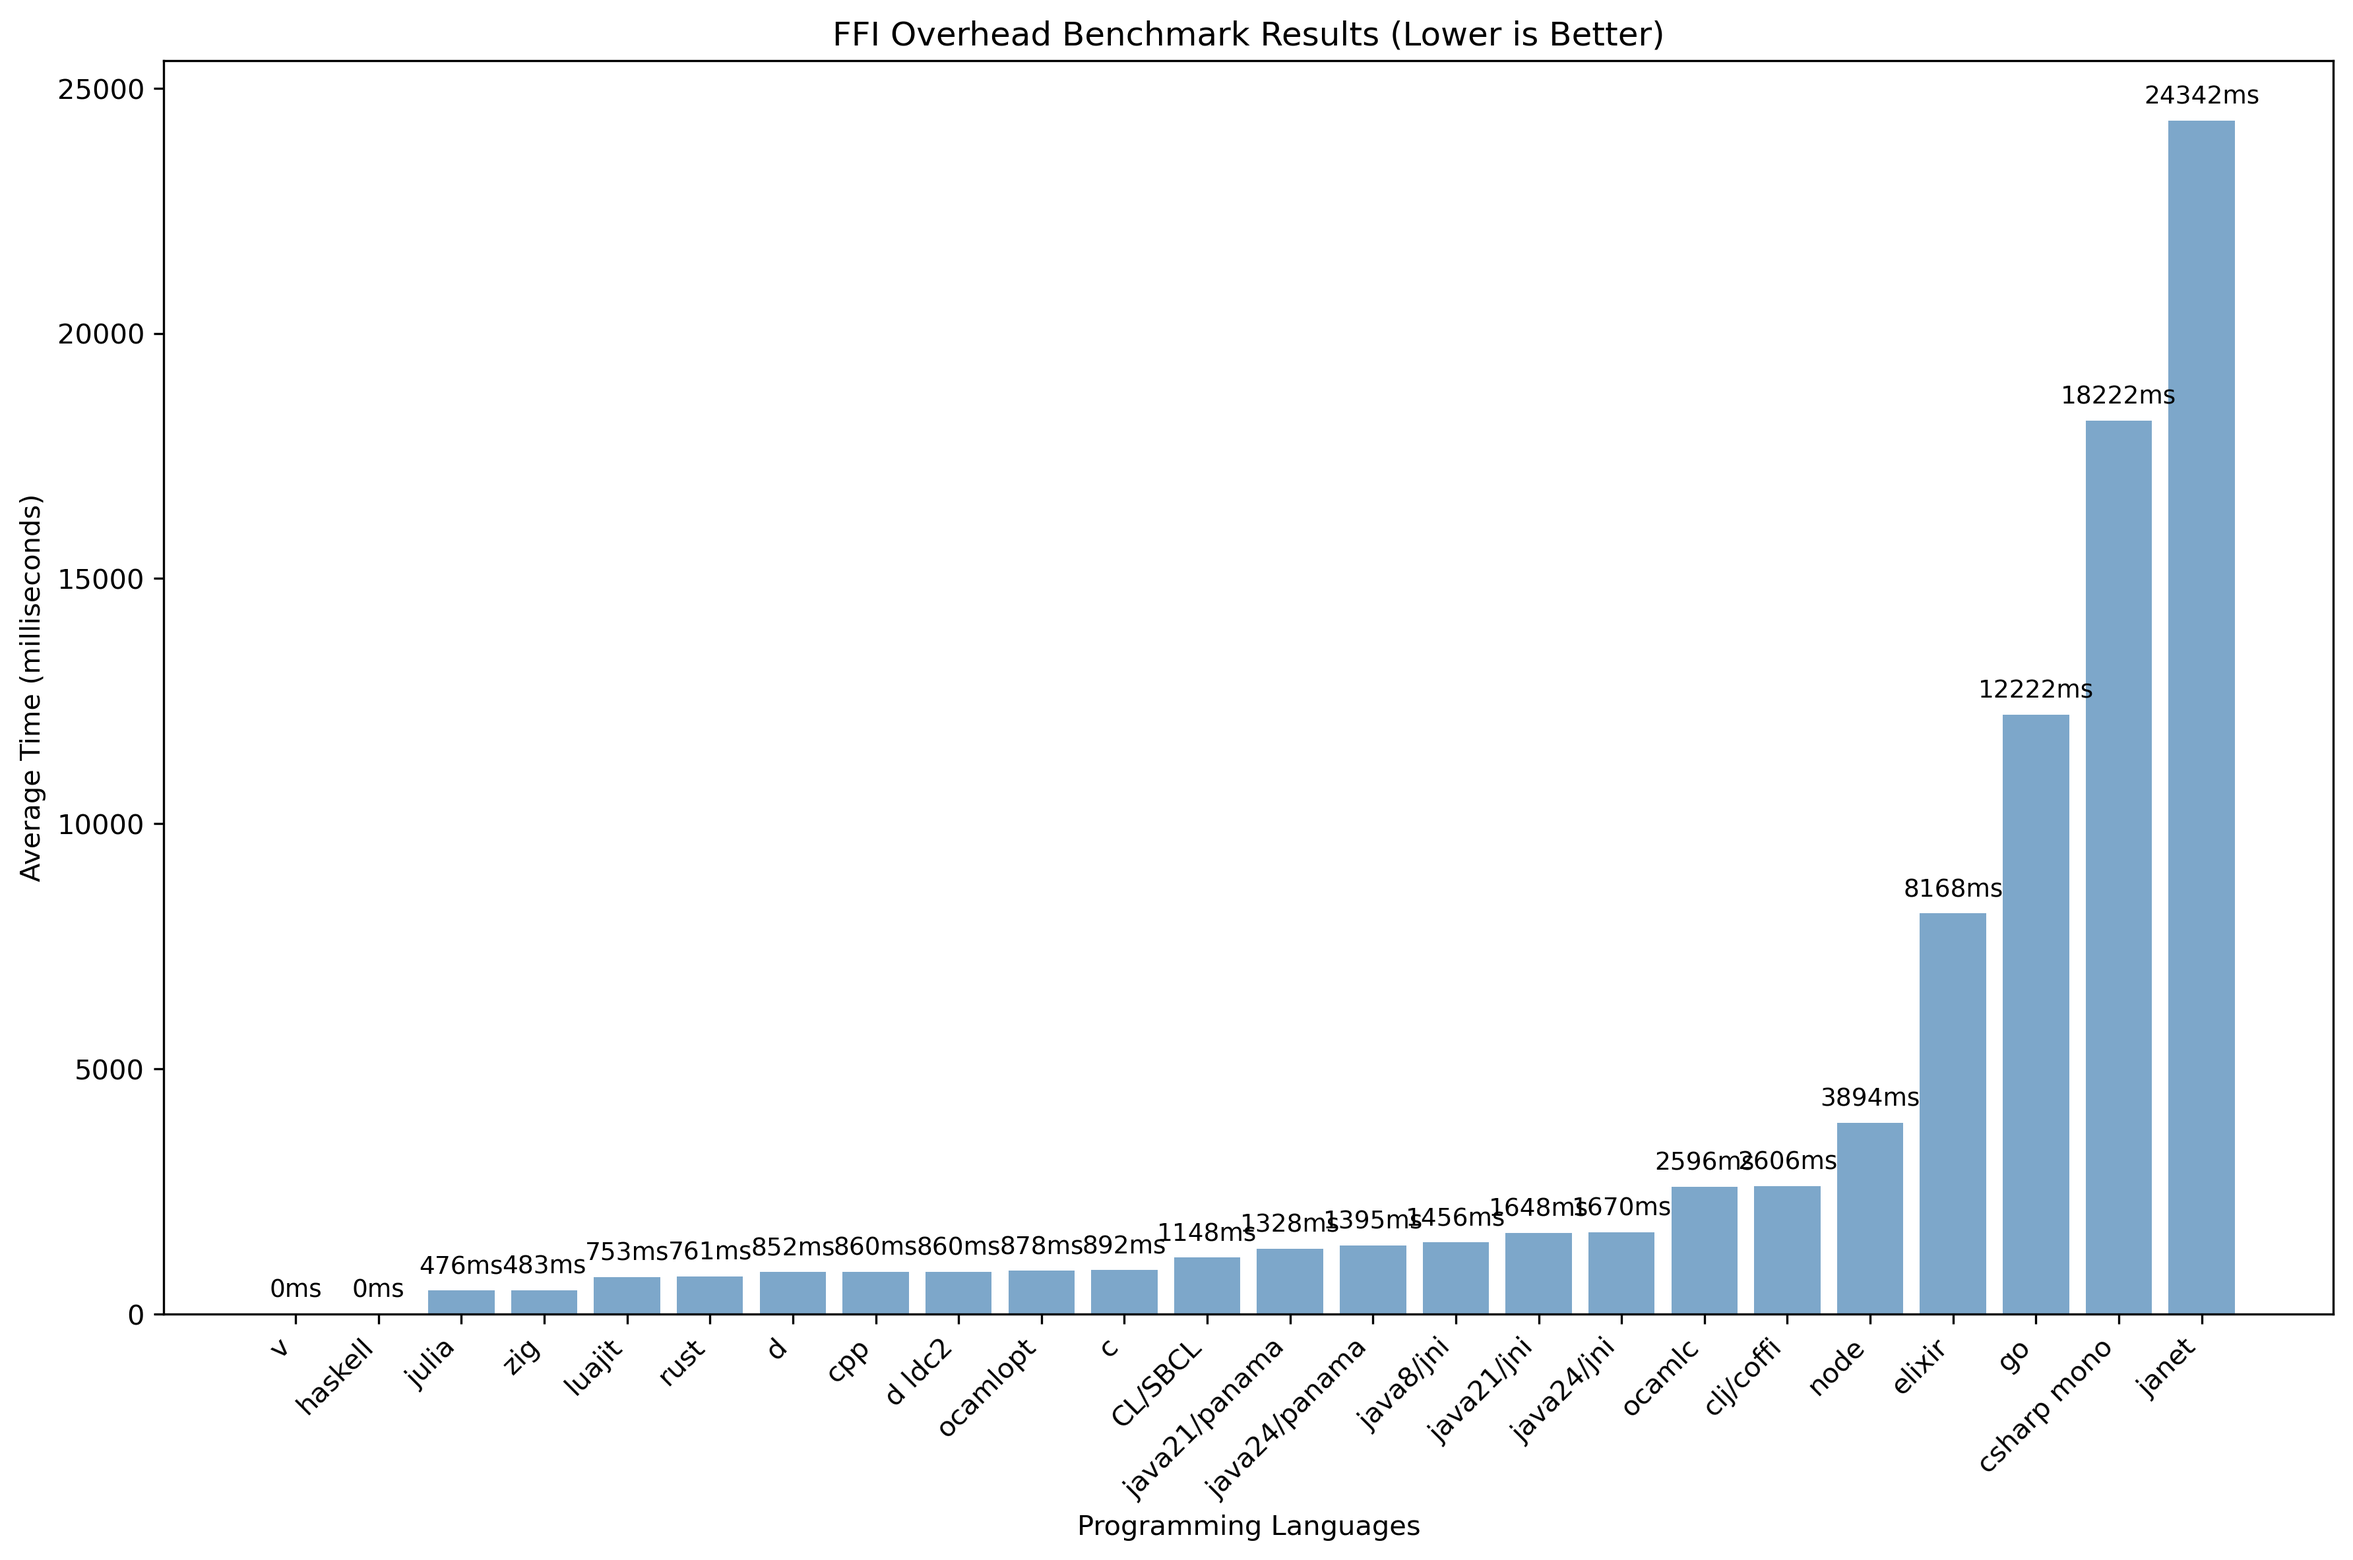
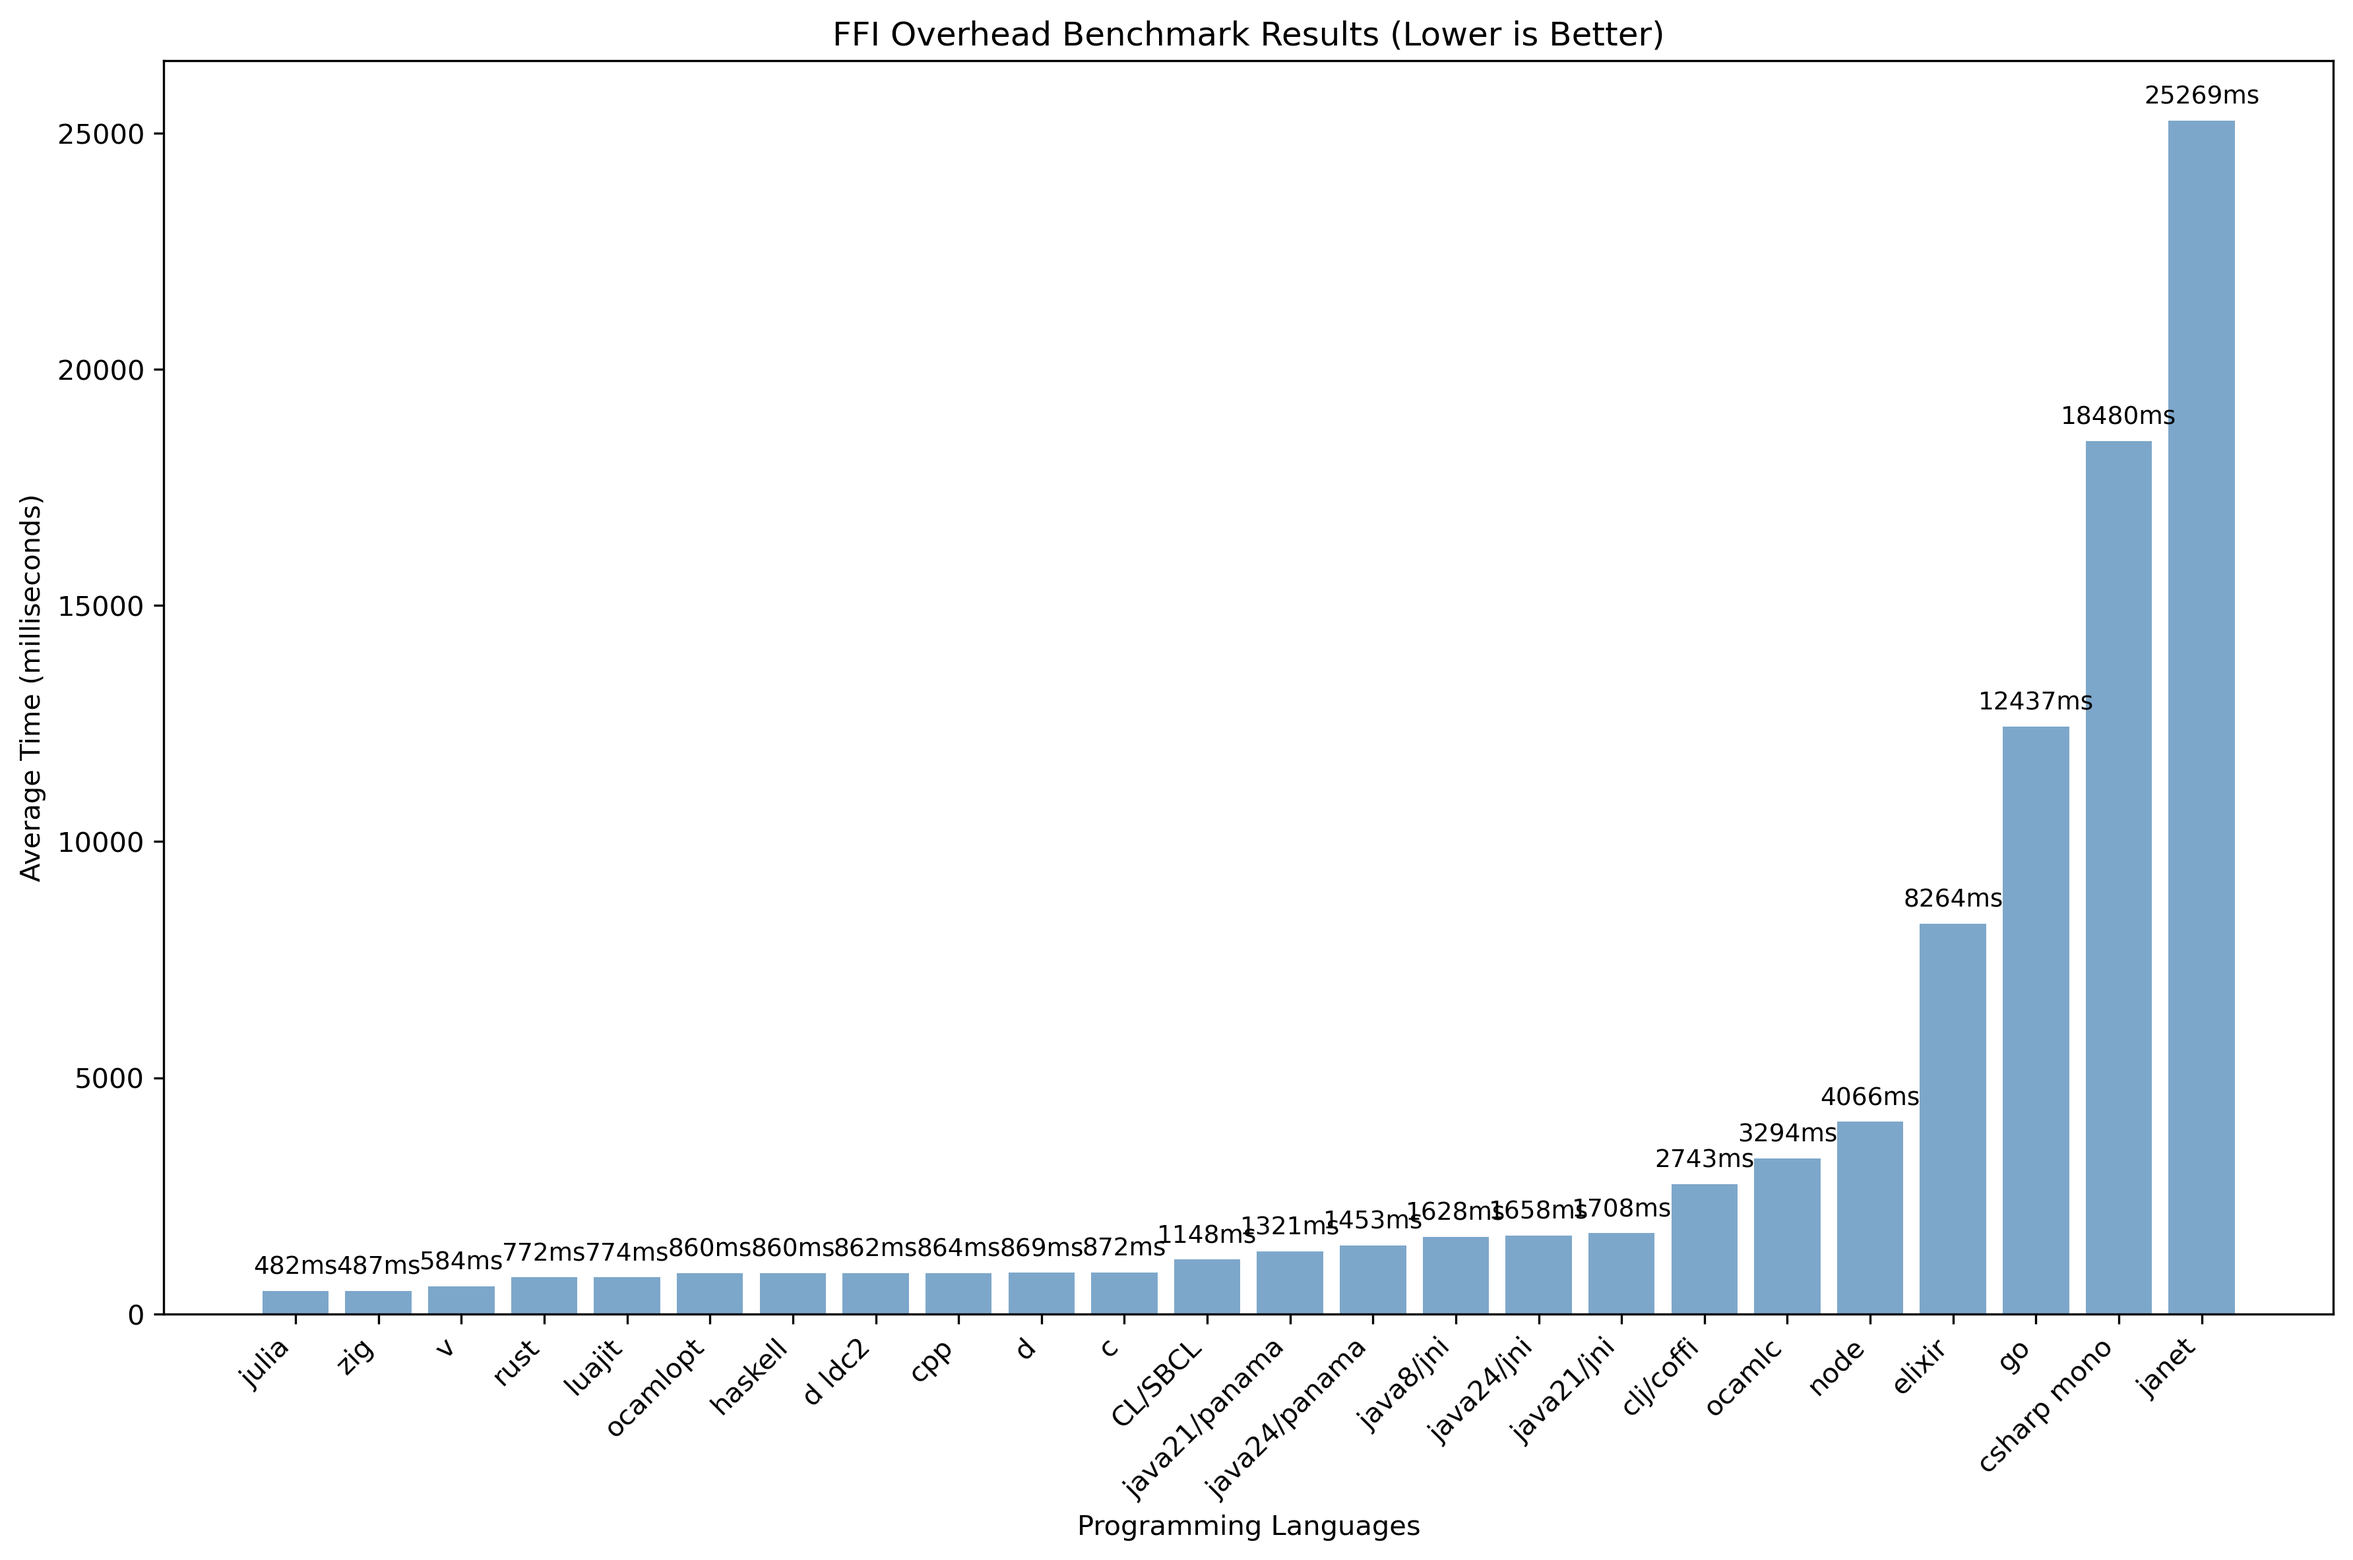
update data

diff --git a/README.md b/README.md
@@ -3,35 +3,75 @@ ffi-overhead
 
 comparing the c ffi overhead on various programming languages
 
+# Results (2025-08)
+
+> [!WARNING]  
+> Disclaimer: I have no idea what I am doing. Do not believe this.
+
+The benchmark results can be visualized using the automated benchmarking harness:
+
+![FFI Overhead Benchmark Results for 2025-08](data/2025-08/chart.png)
+
+*Chart shows average execution times across multiple runs. Lower values are better.*
+
+Raw data: [data/2025-08/raw_data.csv](./data/2025-08/data.csv)
+
+Tool chain versions used: [data/2025-08/toolchain.txt](./data/2025-08/toolchain.txt)
+
+The native function is, ran `count` times
+
+``` c
+int plusone(int x)
+{
+    return x + 1;
+}
+```
+
+```
+❯ ./bench.py --verbose --csv data/2025-08/data.csv --chart ./data/2025-08/chart.png --baseline c
+Benchmark Results (2 runs, count=500,000,000)
+───────────────────────────────────────────────────────────────────────────────
+│ Benchmark     │     Mean │      Min │      Max │  Std Dev │     vs Baseline │
+───────────────────────────────────────────────────────────────────────────────
+│ julia         │   482 ms │   478 ms │   485 ms │   4.9 ms │    1.81x faster │
+│ zig           │   487 ms │   483 ms │   491 ms │   5.7 ms │    1.79x faster │
+│ v             │   584 ms │   581 ms │   587 ms │   4.2 ms │    1.49x faster │
+│ rust          │   772 ms │   770 ms │   773 ms │   2.1 ms │    1.13x faster │
+│ luajit        │   774 ms │   768 ms │   780 ms │   8.5 ms │    1.13x faster │
+│ d             │   869 ms │   864 ms │   874 ms │   7.1 ms │    1.00x faster │
+│ ocamlopt      │   860 ms │   851 ms │   868 ms │  12.0 ms │    1.02x faster │
+│ cpp           │   864 ms │   864 ms │   865 ms │   0.7 ms │    1.01x faster │
+│ d ldc2        │   862 ms │   861 ms │   862 ms │   0.7 ms │    1.01x faster │
+│ haskell       │   860 ms │   857 ms │   863 ms │   4.2 ms │    1.01x faster │
+│ c             │   872 ms │   870 ms │   875 ms │   3.5 ms │ 1.00x (baseline)│
+│ CL/SBCL       │  1148 ms │  1138 ms │  1159 ms │  14.8 ms │    1.32x slower │
+│ java21/panama │  1321 ms │  1318 ms │  1324 ms │   4.2 ms │    1.51x slower │
+│ java24/panama │  1453 ms │  1442 ms │  1464 ms │  15.6 ms │    1.67x slower │
+│ java8/jni     │  1628 ms │  1439 ms │  1818 ms │ 268.0 ms │    1.87x slower │
+│ java21/jni    │  1708 ms │  1674 ms │  1742 ms │  48.1 ms │    1.96x slower │
+│ java24/jni    │  1658 ms │  1654 ms │  1663 ms │   6.4 ms │    1.90x slower │
+│ clj/coffi     │  2743 ms │  2660 ms │  2826 ms │ 117.4 ms │    3.14x slower │
+│ ocamlc        │  3294 ms │  2684 ms │  3904 ms │ 862.7 ms │    3.78x slower │
+│ node          │  4066 ms │  4039 ms │  4093 ms │  38.2 ms │    4.66x slower │
+│ elixir        │  8264 ms │  8193 ms │  8335 ms │ 100.4 ms │    9.47x slower │
+│ go            │ 12437 ms │ 12206 ms │ 12668 ms │ 326.7 ms │   14.25x slower │
+│ csharp mono   │ 18480 ms │ 18391 ms │ 18569 ms │ 125.9 ms │   21.18x slower │
+│ janet         │ 25269 ms │ 24542 ms │ 25996 ms │ 1028.1 ms│   28.96x slower │
+───────────────────────────────────────────────────────────────────────────────
+```
+
+Ran on a AMD Ryzen 9 7950X3D 16-Core cpu
+
+
+# Usage
+
 Requirements:
-- gcc
-- tup
-- zig
-- nim
-- v
-- java7
-- java8
-- go
-- rust
-- d (dmd and ldc2)
-- haskell (ghc)
-- ocaml
-- csharp (mono)
-- luajit
-- julia
-- node
-- dart
-- wren
-- elixir
 
-## Nix Development Environment
+ - nix w/ flakes enabled
 
-This project includes a Nix flake for reproducible development environments. To use it:
+This project includes a Nix flake for reproducible development environments.
 
-### Prerequisites
-- Install Nix with flakes enabled
-
-### Usage
+## Usage
 ```sh
 # Enter the development shell
 nix develop
@@ -74,20 +114,6 @@ Current environment (Nix) (2025-08):
 - wren not available (not in nixpkgs)
 ```
 
-### Initialize
-```sh
-nix develop --command -- tup init
-```
-
-### Compile
-```sh
-nix develop --command -- ./compile-all.sh
-```
-
-Compile opts:
-- -O2 (gcc - applies to c/jni/nim)
-- -C opt-level=2 (rust)
-
 ### Run
 
 ```sh
@@ -99,67 +125,4 @@ nix develop --command -- python3 bench.py --verbose --runs 5 --count 1000000
 
 # Specify output files
 nix develop --command -- python3 bench.py --verbose --csv my_results.csv --chart my_chart.png
-```
-
-The harness will:
-- Run benchmarks multiple times and average the results
-- Generate a CSV file with detailed timing data
-- Create a bar chart visualization (PNG format)
-- Print a summary of results sorted by performance
-
-Measurement:
-- call the c function "plusone" x number of times and print out the elapsed time in millis.
- ```c
-int x = 0;
-while (x < count) x = plusone(x);
- ```
-
-
-Default run is with 2 samples
-
-## Results (500M calls)
-
-The benchmark results can be visualized using the automated benchmarking harness:
-
-![FFI Overhead Benchmark Results for 2025-08](data/2025-08/chart.png)
-
-*Chart shows average execution times across multiple runs. Lower values indicate better performance.*
-
-Raw data: [data/2025-08/raw_data.csv](./data/2025-08/data.csv)
-
-Tool chain versions used: [data/2025-08/toolchain.txt](./data/2025-08/toolchain.txt)
-
-
-```
-❯ ./bench.py --verbose --csv data/2025-08/data.csv --chart ./data/2025-08/chart.png --baseline c
-
-Benchmark Results (2 runs, count=500,000,000)
-───────────────────────────────────────────────────────────────────────────────
-│ Benchmark     │     Mean │      Min │      Max │  Std Dev │     vs Baseline │
-───────────────────────────────────────────────────────────────────────────────
-│ c             │   892 ms │   863 ms │   920 ms │  40.3 ms │ 1.00x (baseline) │
-│ luajit        │   753 ms │   752 ms │   754 ms │   1.4 ms │    1.18x faster │
-│ cpp           │   860 ms │   848 ms │   872 ms │  17.0 ms │    1.04x faster │
-│ CL/SBCL       │  1148 ms │  1144 ms │  1151 ms │   4.9 ms │    1.29x slower │
-│ zig           │   483 ms │   483 ms │   483 ms │   0.0 ms │    1.85x faster │
-│ v             │     0 ms │     0 ms │     0 ms │   0.0 ms │ N/A (mean ~0ms) │
-│ rust          │   761 ms │   760 ms │   762 ms │   1.4 ms │    1.17x faster │
-│ d             │   852 ms │   847 ms │   857 ms │   7.1 ms │    1.05x faster │
-│ d ldc2        │   860 ms │   857 ms │   863 ms │   4.2 ms │    1.04x faster │
-│ haskell       │     0 ms │     0 ms │     0 ms │   0.0 ms │ N/A (mean ~0ms) │
-│ ocamlopt      │   878 ms │   874 ms │   882 ms │   5.7 ms │    1.02x faster │
-│ ocamlc        │  2596 ms │  2591 ms │  2602 ms │   7.8 ms │    2.91x slower │
-│ csharp mono   │ 18222 ms │ 18218 ms │ 18226 ms │   5.7 ms │   20.44x slower │
-│ java8/jni     │  1456 ms │  1438 ms │  1474 ms │  25.5 ms │    1.63x slower │
-│ java21/jni    │  1648 ms │  1646 ms │  1651 ms │   3.5 ms │    1.85x slower │
-│ java24/jni    │  1670 ms │  1665 ms │  1674 ms │   6.4 ms │    1.87x slower │
-│ java21/panama │  1328 ms │  1297 ms │  1360 ms │  44.5 ms │    1.49x slower │
-│ java24/panama │  1395 ms │  1372 ms │  1418 ms │  32.5 ms │    1.56x slower │
-│ node          │  3894 ms │  3867 ms │  3920 ms │  37.5 ms │    4.37x slower │
-│ go            │ 12222 ms │ 12175 ms │ 12268 ms │  65.8 ms │   13.71x slower │
-│ elixir        │  8168 ms │  8136 ms │  8199 ms │  44.5 ms │    9.16x slower │
-│ julia         │   476 ms │   475 ms │   476 ms │   0.7 ms │    1.87x faster │
-│ janet         │ 24342 ms │ 24335 ms │ 24348 ms │   9.2 ms │   27.30x slower │
-│ clj/coffi     │  2606 ms │  2581 ms │  2631 ms │  35.4 ms │    2.92x slower │
-───────────────────────────────────────────────────────────────────────────────
 ```
